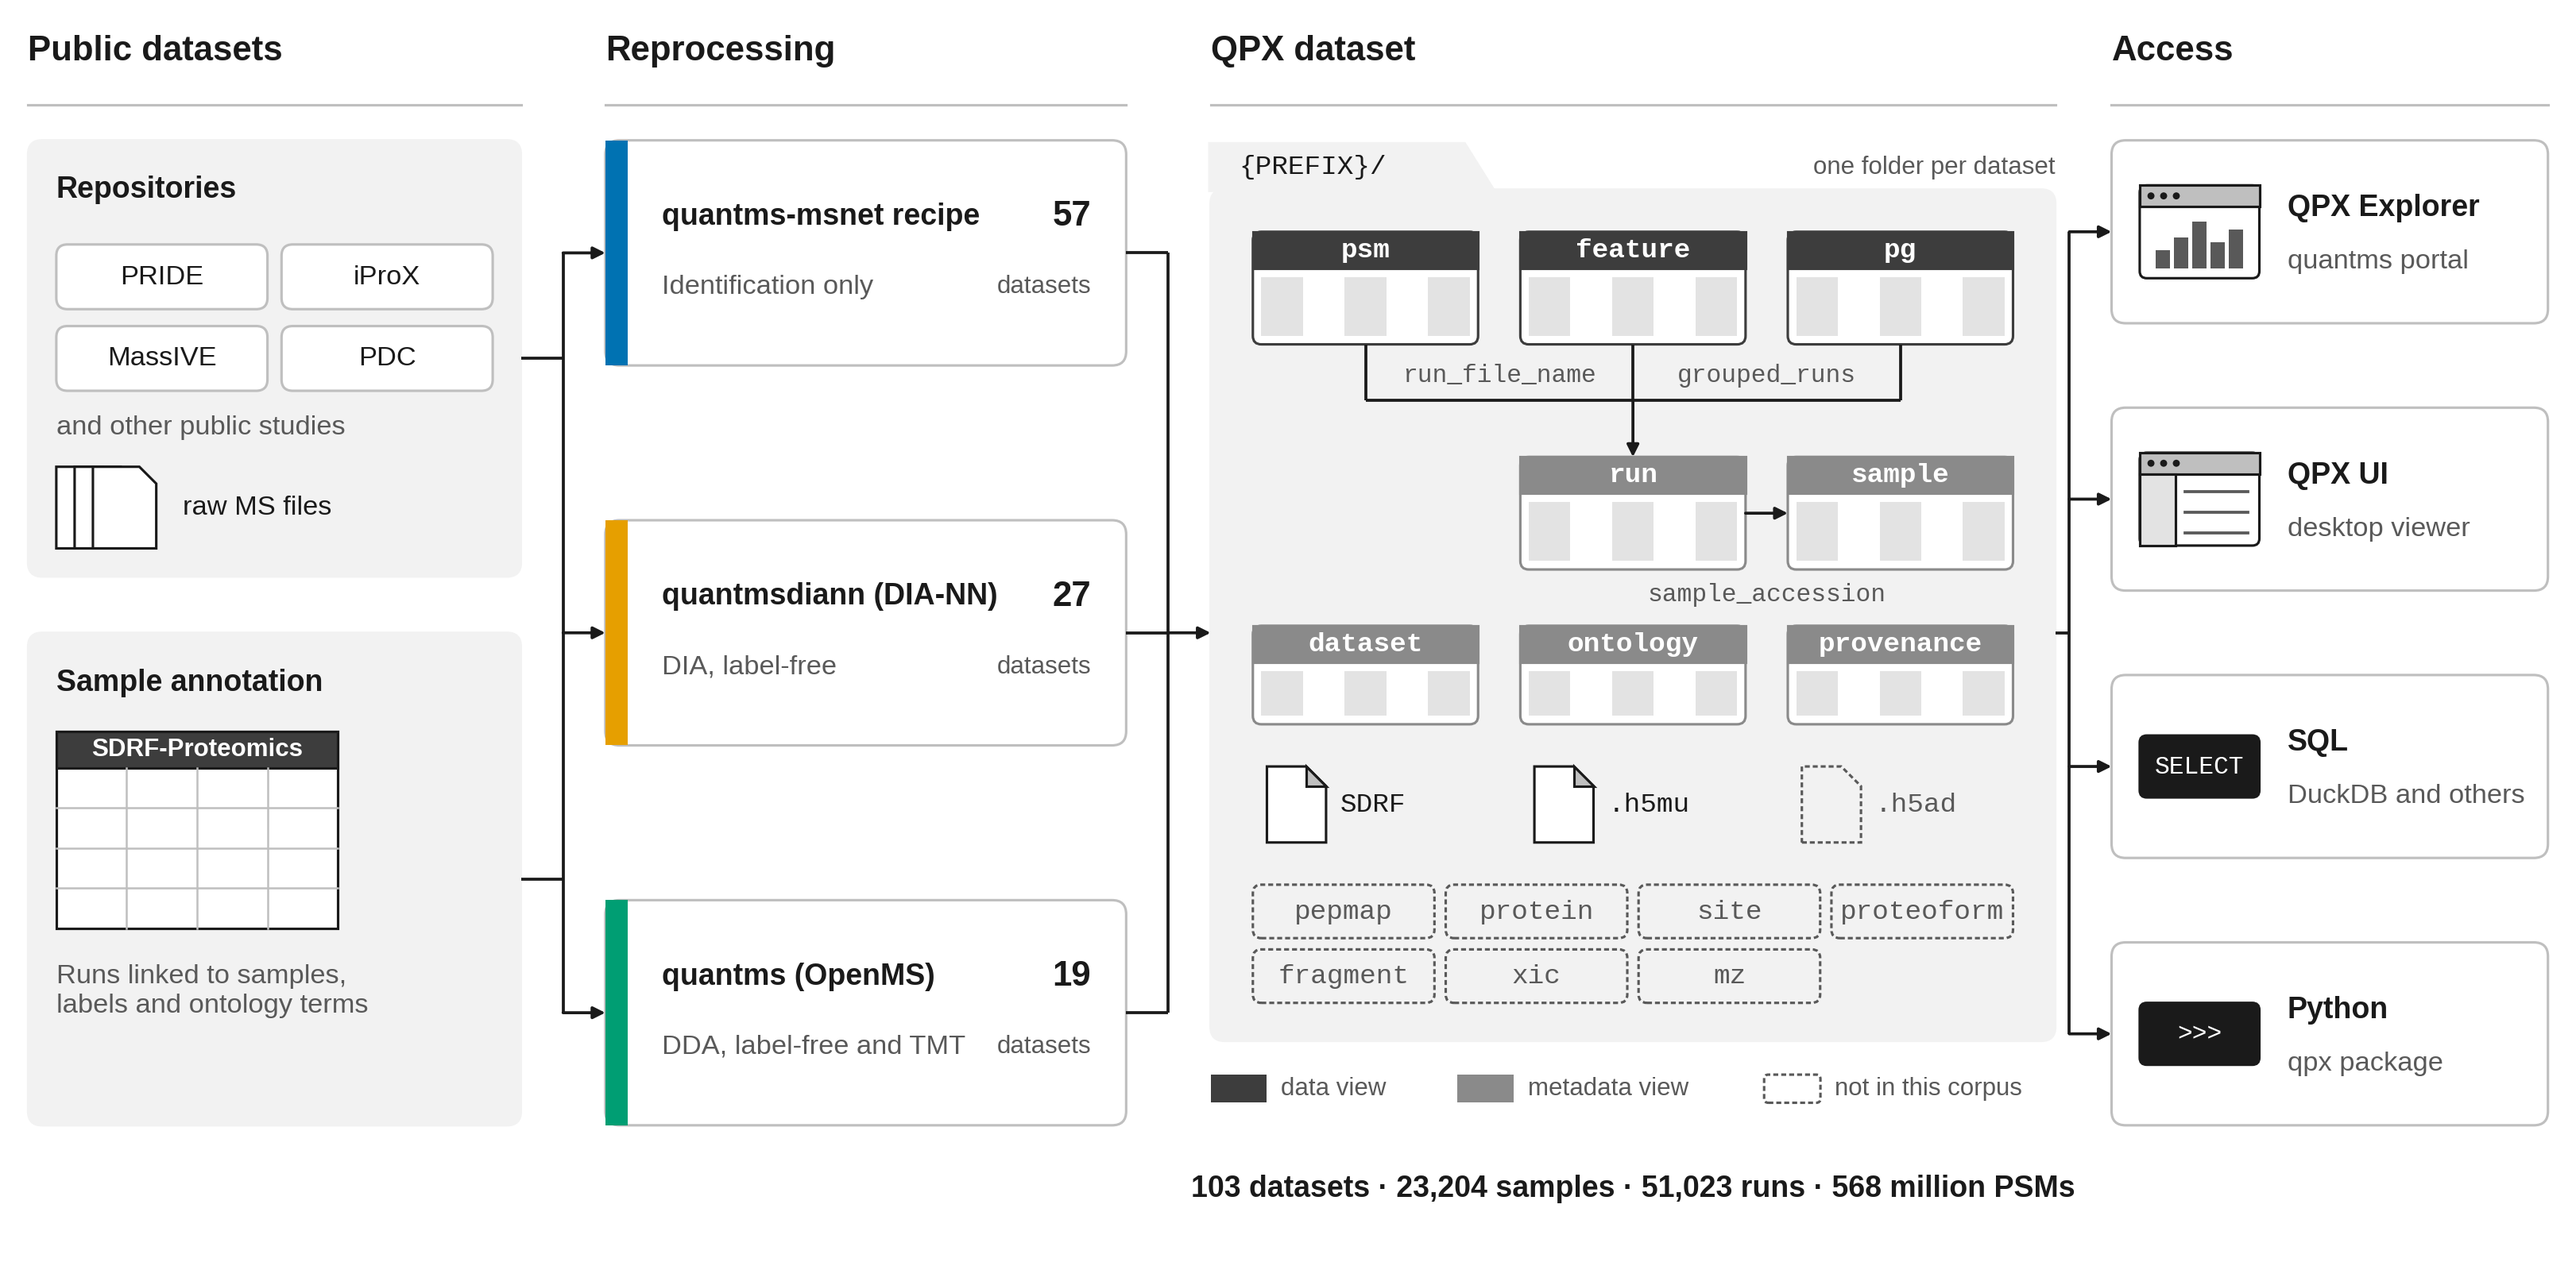
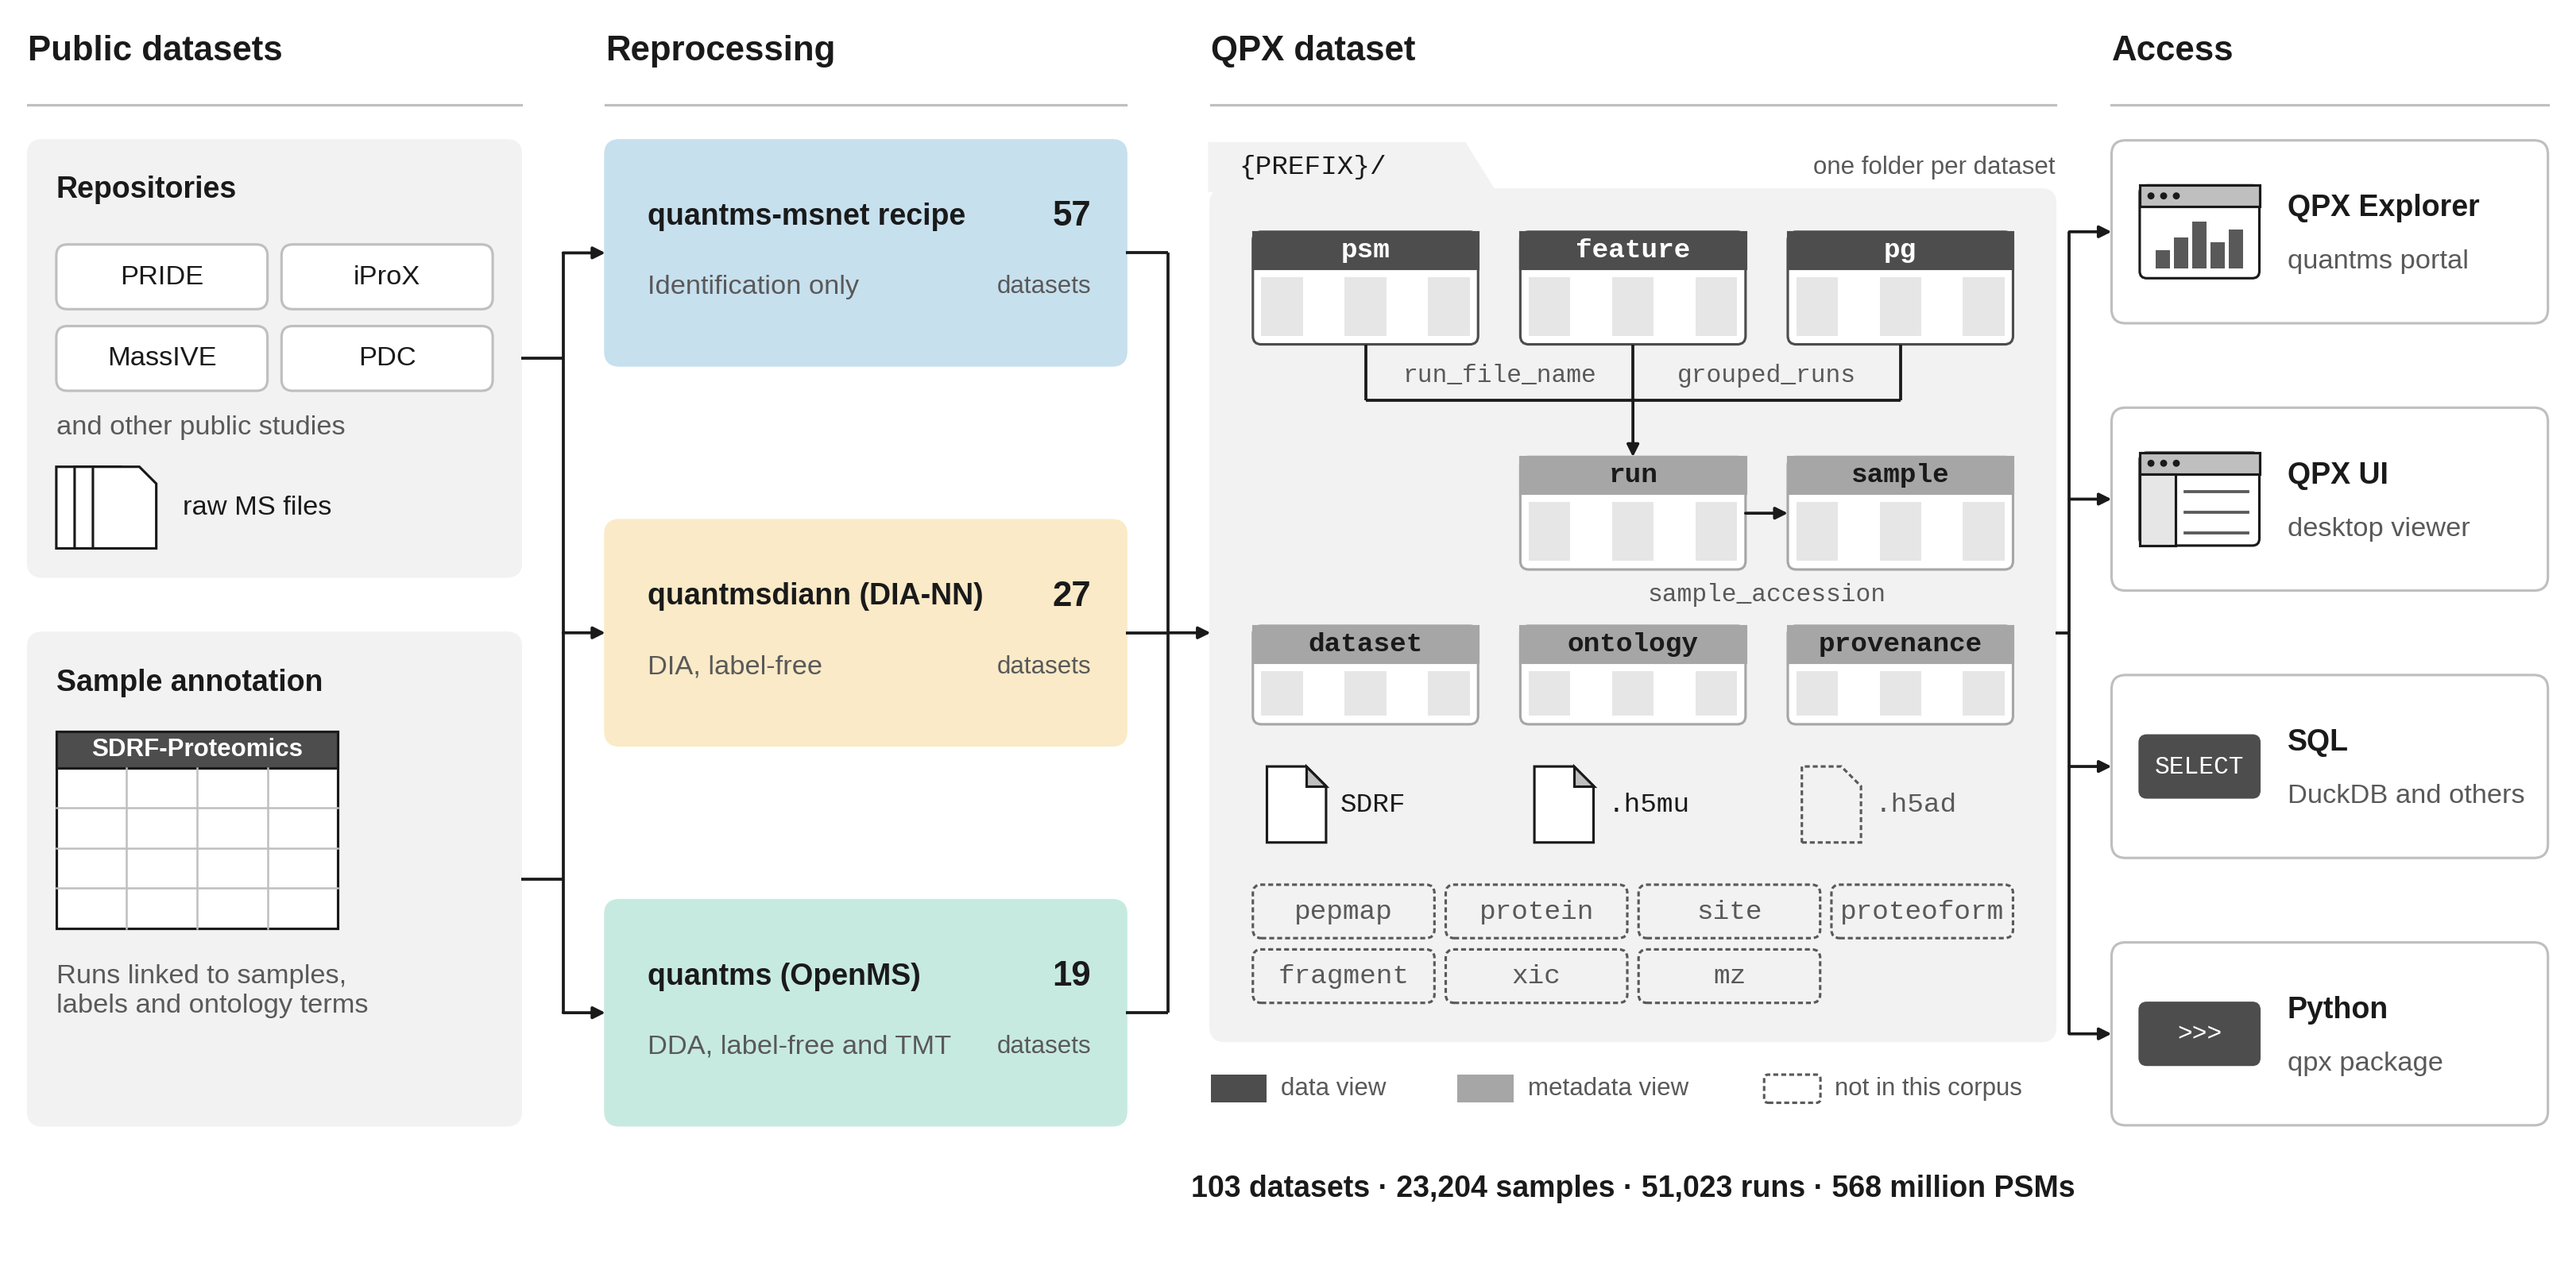
fix(figures): Tint the Figure 1 route boxes instead of edge strips

diff --git a/scripts/figures/fig1_overview.py b/scripts/figures/fig1_overview.py
@@ -10,6 +10,7 @@ Run: python scripts/figures/fig1_overview.py
 
 import matplotlib.pyplot as plt
 import pandas as pd
+from matplotlib.colors import to_rgb
 from matplotlib.patches import FancyArrowPatch, FancyBboxPatch, Polygon, Rectangle
 
 from fig2_corpus import SNAPSHOT, check, load
@@ -17,9 +18,14 @@ from figS2_coverage import presence
 from qpxfig import DOUBLE, INK, MM, MONO, MUTED, PANEL_FILL, ROUTE_COLOURS, ROUTES, RULE, save
 
 W, H = 183, 90  # mm
-DATA_HEAD = "#3d3d3d"
-META_HEAD = "#8a8a8a"
-STRIPE = "#e3e3e3"
+DATA_HEAD = "#4d4d4d"
+META_HEAD = "#a6a6a6"
+STRIPE = "#e6e6e6"
+
+
+def tint(colour, share):
+    """The colour mixed with white, share being the part of the colour."""
+    return tuple(1 - share * (1 - c) for c in to_rgb(colour))
 
 
 def box(ax, x, y, w, h, fill="white", edge=RULE, lw=0.5, dashed=False, r=1.0):
@@ -60,8 +66,8 @@ def table(ax, x, y, w, h, name, head, present=True):
     hh = 2.6
     box(ax, x, y, w, h, fill="white", edge=head, r=0.6)
     ax.add_patch(Rectangle((x, y + h - hh), w, hh, fc=head, ec=head, lw=0.5))
-    text(ax, x + w / 2, y + h - hh / 2, name, size=5.5, ha="center", color="white",
-         weight="bold", family=MONO)
+    text(ax, x + w / 2, y + h - hh / 2, name, size=5.5, ha="center",
+         color="white" if head == DATA_HEAD else INK, weight="bold", family=MONO)
     n = 5
     cw = (w - 1.2) / n
     for i in range(n):
@@ -105,7 +111,7 @@ def window(ax, x, y, w, h, kind):
 
 
 def code(ax, x, y, w, h, s):
-    box(ax, x, y, w, h, fill=INK, edge=INK, r=0.5)
+    box(ax, x, y, w, h, fill=DATA_HEAD, edge=DATA_HEAD, r=0.5)
     text(ax, x + w / 2, y + h / 2, s, size=5, ha="center", color="white", family=MONO)
 
 
@@ -177,10 +183,10 @@ def main():
     ys = [top - rh, (top + bottom - rh) / 2, bottom]
     for route, y in zip(ROUTES, ys):
         name, sub = routes[route]
-        box(ax, x, y, w, rh)
-        ax.add_patch(Rectangle((x, y), 1.6, rh, fc=ROUTE_COLOURS[route], ec="none"))
-        text(ax, x + 4, y + 10.6, name, weight="bold")
-        text(ax, x + 4, y + 5.6, sub, size=5.5, color=MUTED)
+        fill = tint(ROUTE_COLOURS[route], 0.22)
+        box(ax, x, y, w, rh, fill=fill, edge=fill)
+        text(ax, x + 3, y + 10.6, name, weight="bold")
+        text(ax, x + 3, y + 5.6, sub, size=5.5, color=MUTED)
         text(ax, x + w - 2.5, y + 10.6, f"{c['routes'][route]}", size=7, weight="bold",
              ha="right")
         text(ax, x + w - 2.5, y + 5.6, "datasets", size=5, color=MUTED, ha="right")
